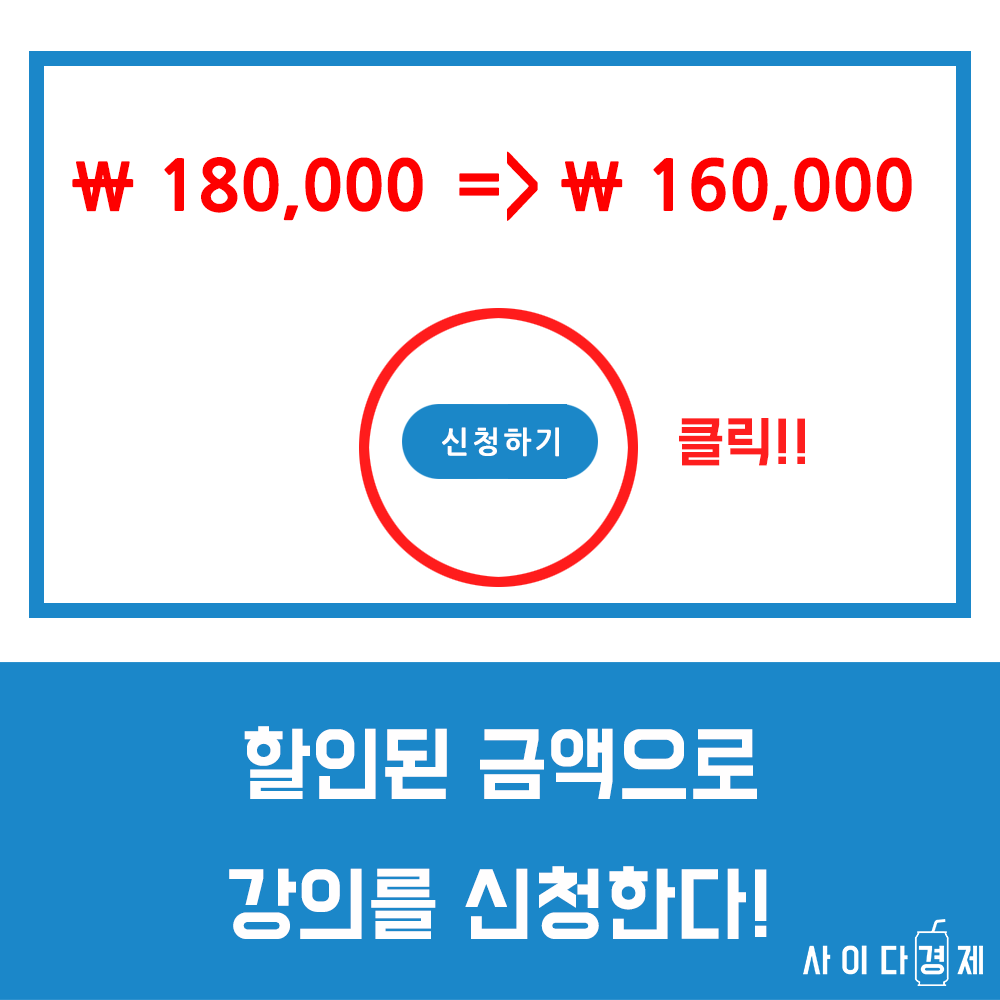
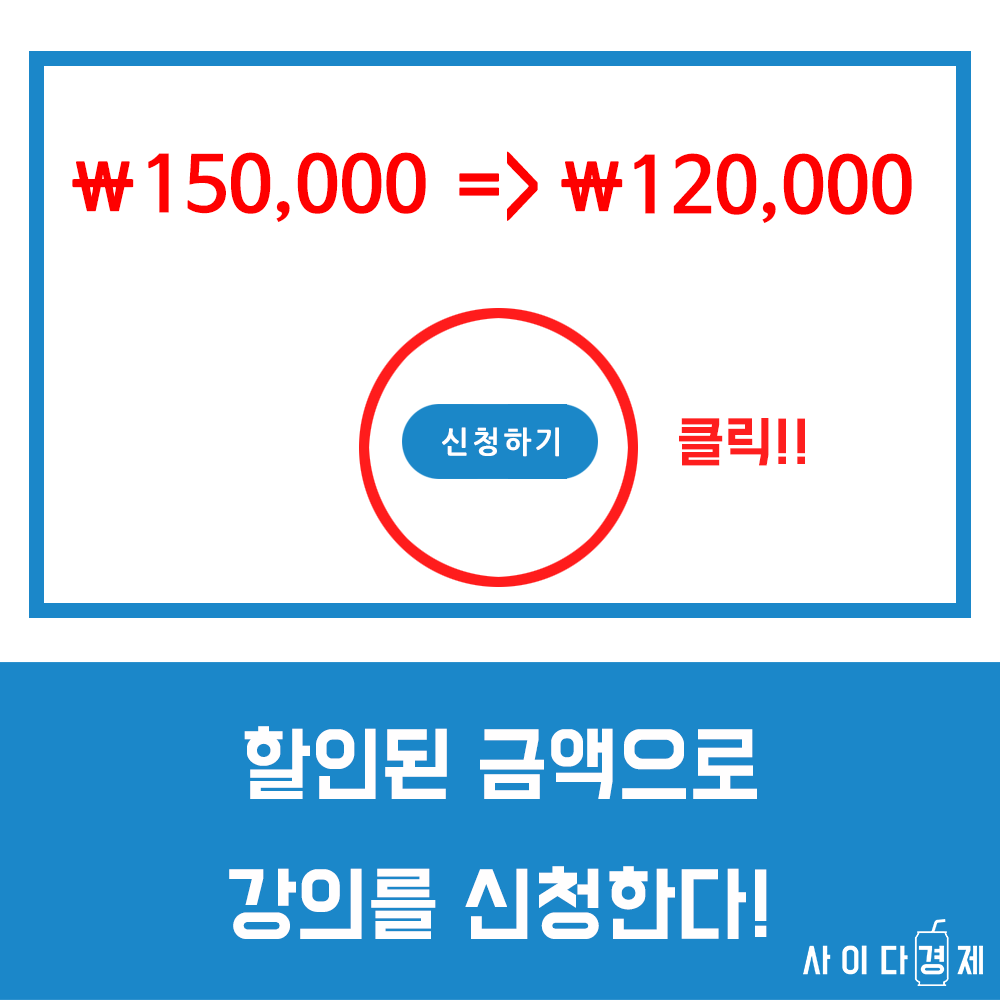
*수정사항
lecture_img/1~6.png 추가

css

lecture.css 수정

js
lecture.js

ejs
contents_detail.ejs
lecture.ejs
lecture_detail.ejs 수정

Changed region(s): [[0.62, 0.155, 0.899, 0.217], [0.155, 0.155, 0.434, 0.217]]

diff --git a/routes/lecture.js b/routes/lecture.js
@@ -52,7 +52,7 @@ router.get('/lecture', function(req, res, next) {
 
 
 router.get('/lecture/apply', function(req, res, next) {
-	var lec_price = 180000;
+	var lec_price = 150000;
 
 	console.log(lec_price);
 
@@ -102,7 +102,7 @@ router.post('/lecture/apply/codeapply', function(req, res, next) {
 	
 	if(coup_code == "CKEH01" || coup_code == "CJSM02" || coup_code == "CJKH03" || coup_code == "CYHA04" ){
 		console.log("ok");
-		lec_price = lec_price - 20000;
+		lec_price = lec_price - 30000;
 		res.render('front/cid_lecture/cid_lecture_apply', {lec_price:lec_price });
 	}else {
 		console.log("No");

diff --git a/public/css/cid_lecture.css b/public/css/cid_lecture.css
@@ -3,7 +3,7 @@
 .lecture .grid li{width:100%;}
 .lecture ul .con{margin-bottom:60px; border-left:#999999 1px solid; border-bottom:#999999 1px solid; border-right:#999999 1px solid; padding-bottom:10px;}
 .lecture ul .con .date p{padding-top:5px;}
-.lecture ul .con .money p{background-color:#1b87c9; width:110px; height:30px; border-radius:30px; color:#fff;}
+.lecture ul .con .money p{background-color:#1b87c9; width:110px; height:66px; border-radius:10px; color:#fff;}
 .con p{font-size:18px; line-height:1.8em;}
 p.title{display:none;}
 @media all and (max-width:1024px) {
